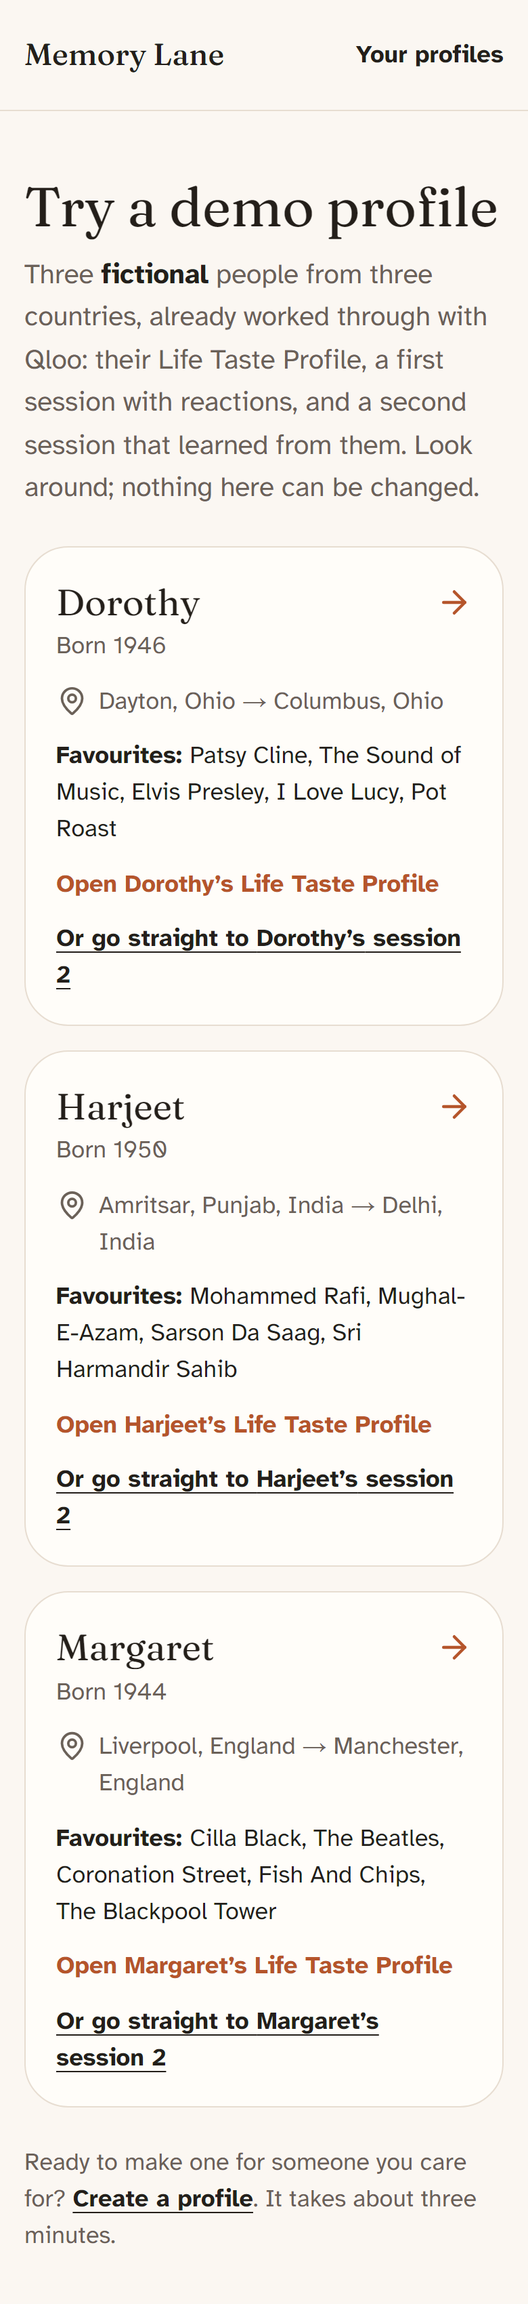
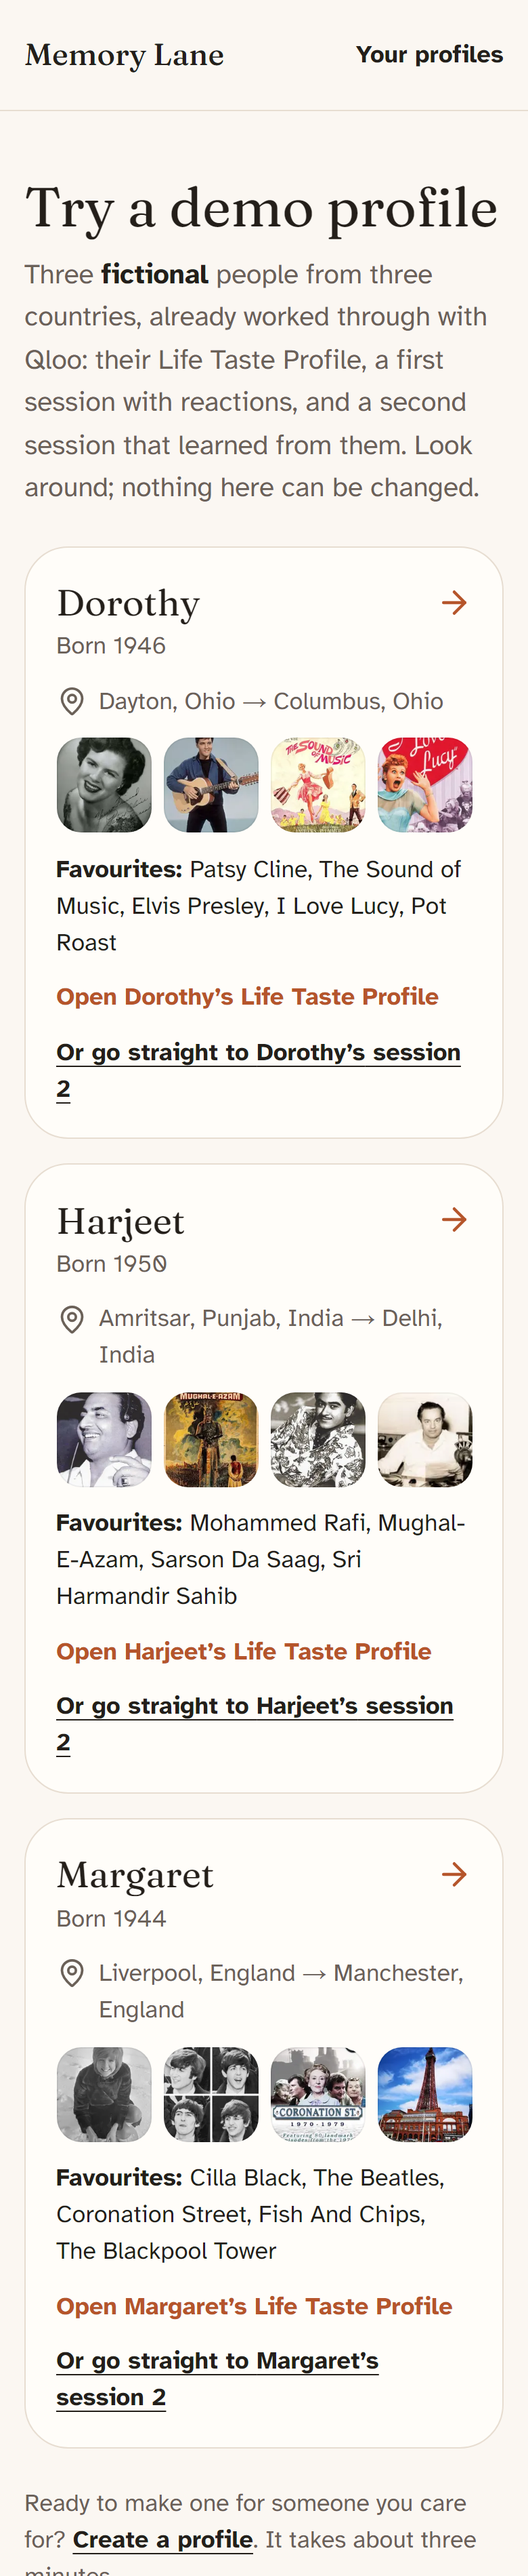
README screenshots with Qloo's pictures (landing, demo picker, taste profile, session 2, player)

diff --git a/README.md b/README.md
@@ -73,9 +73,9 @@ aid, not a treatment (evidence on agitation is mixed:
 | | | |
 |---|---|---|
 | ![Demo picker](docs/screenshots/demo-picker.png) | ![Life Taste Profile](docs/screenshots/taste-profile.png) | ![Session 2 plan with what changed](docs/screenshots/session-plan.png) |
-| Demo personas, ready to explore | Harjeet's Life Taste Profile, demo-first | Margaret's session 2: what it learned |
+| Demo personas, each with Qloo's pictures from their profile | Harjeet's Life Taste Profile: Qloo's picture and evidence on every card | Margaret's session 2: what it learned |
 | ![Evidence drawer](docs/screenshots/evidence-drawer.png) | ![Session player](docs/screenshots/player.png) | ![Generic AI vs Memory Lane](docs/screenshots/compare.png) |
-| The evidence drawer: the Qloo calls behind an item | The player: one item at a time, one hand | The same AI without Qloo, counted in code |
+| The evidence drawer: the Qloo calls behind an item | The player: the name, Qloo's picture to look at together, one hand | The same AI without Qloo, counted in code |
 
 ## Why it needs Qloo
 
